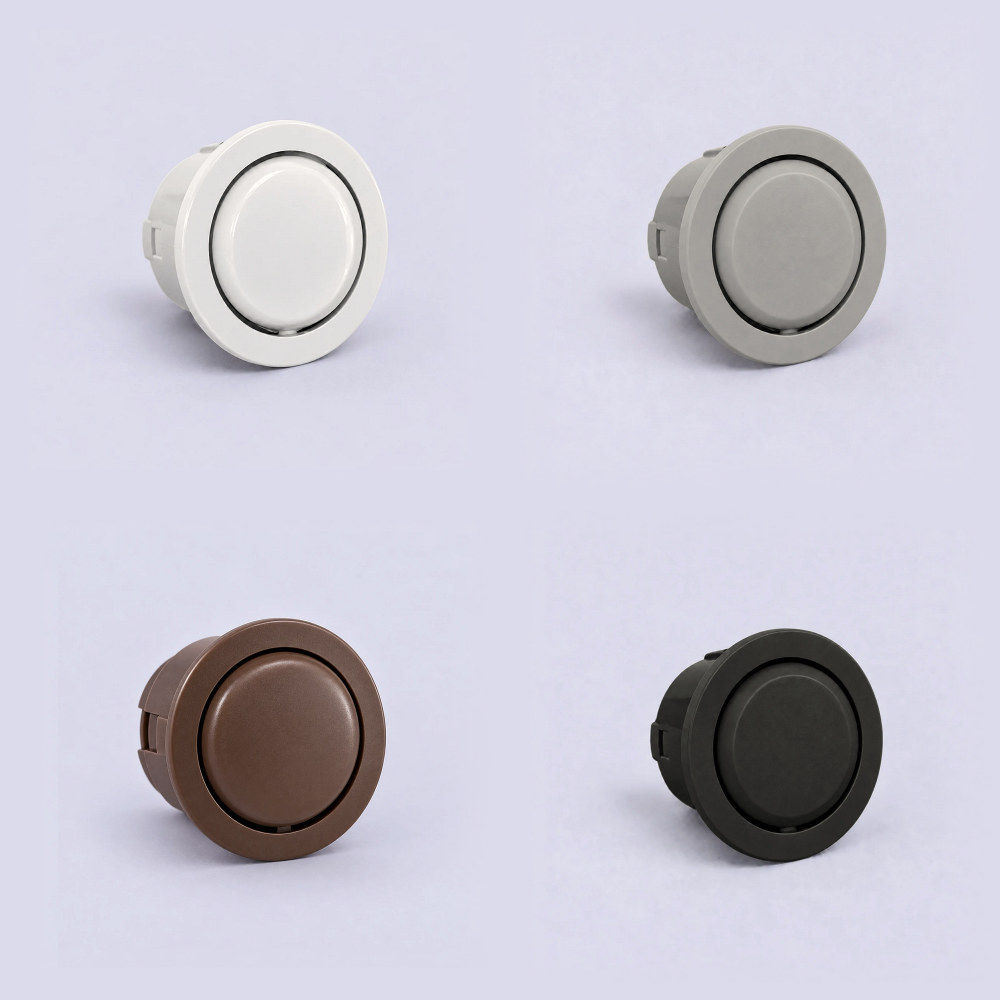
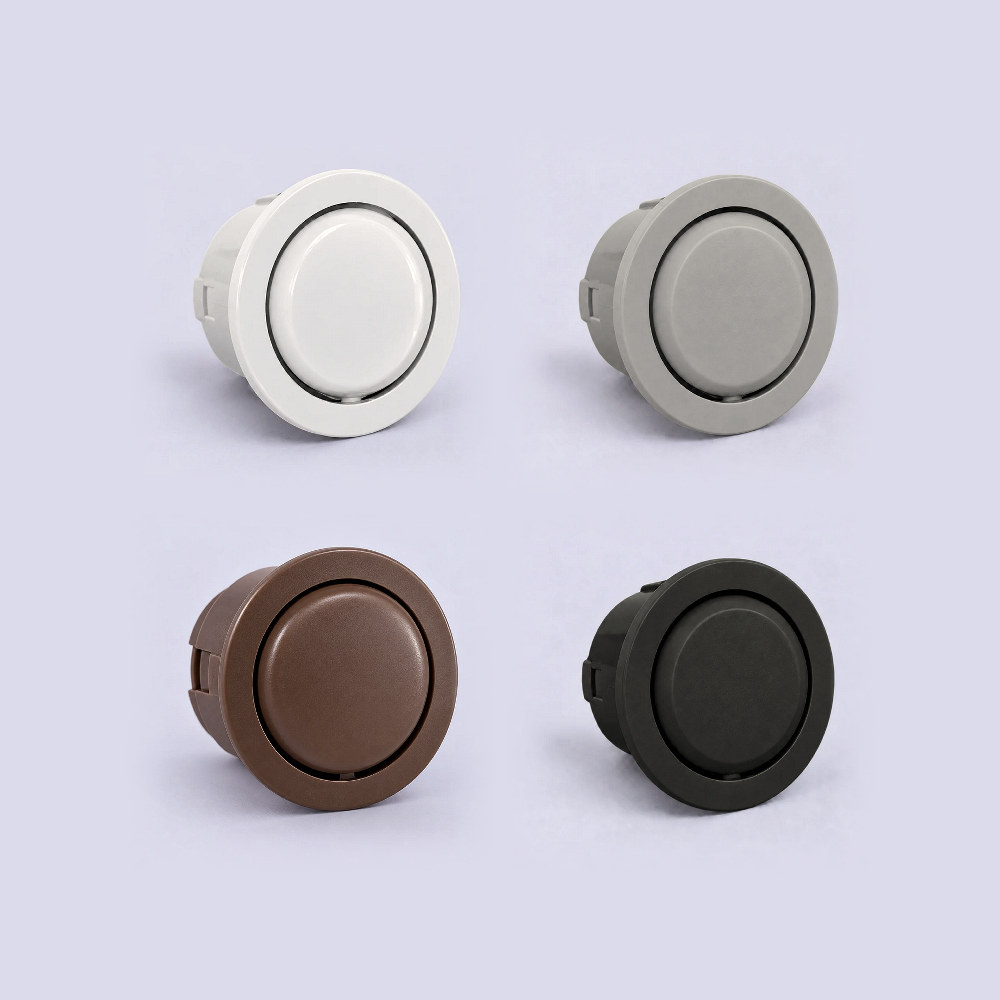
Interruptor bolinha: card só com o branco; as 4 cores ficam na página do produto

diff --git a/produtos/acessorios.html b/produtos/acessorios.html
@@ -139,7 +139,7 @@
       <a class="produto-card" href="acessorios/interruptor-bolinha.html">
         <div class="produto-media">
           
-          <img class="produto-photo" src="../images/produto-acessorio-interruptor-bolinha.jpeg" alt="Interruptor Bolinha" loading="lazy">
+          <img class="produto-photo" src="../images/produto-acessorio-interruptor-bolinha-branco.jpeg" alt="Interruptor Bolinha" loading="lazy">
         </div>
         <div class="produto-body">
           <h3>Interruptor Bolinha</h3>
